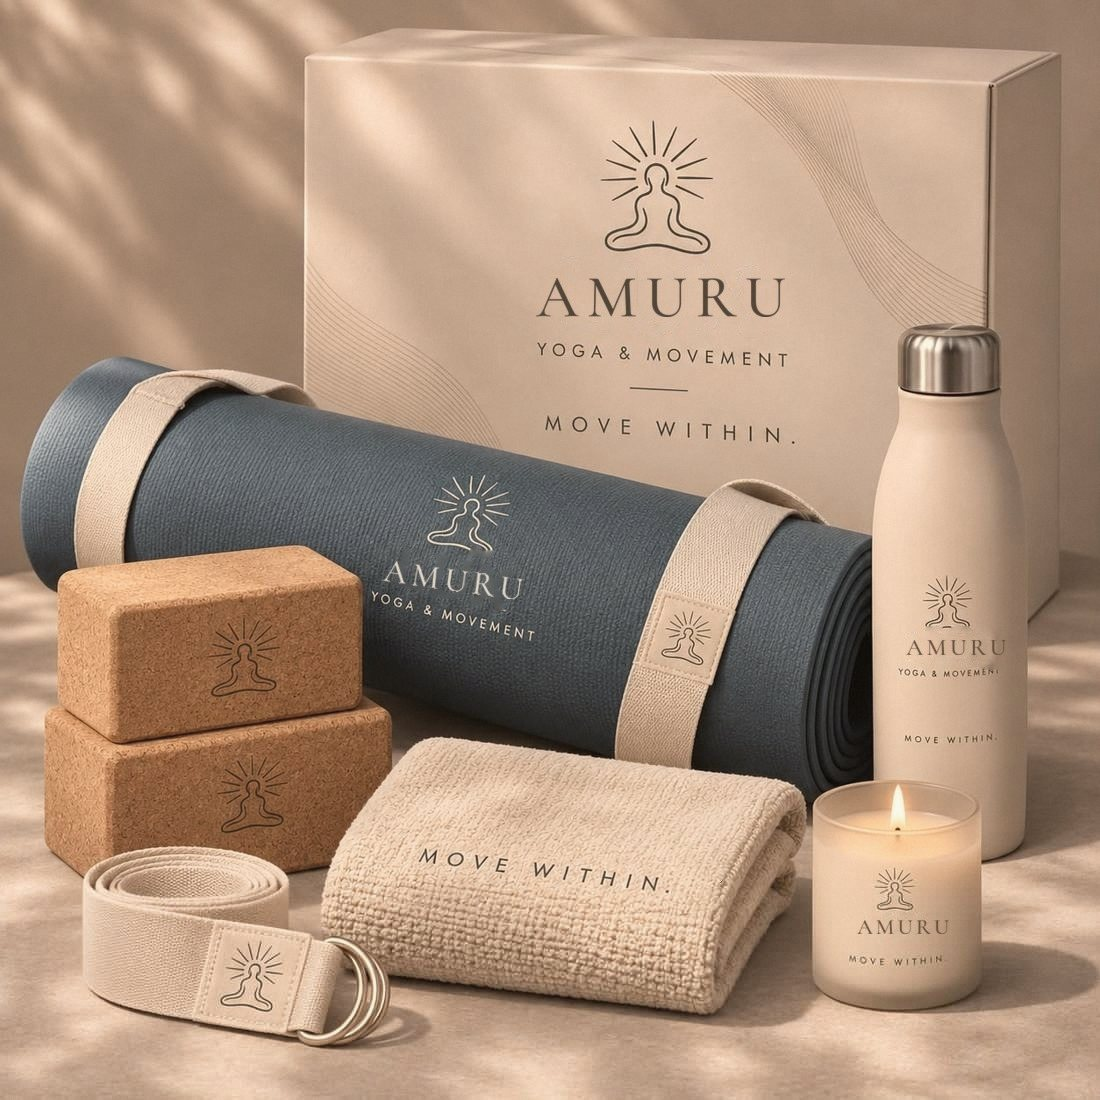
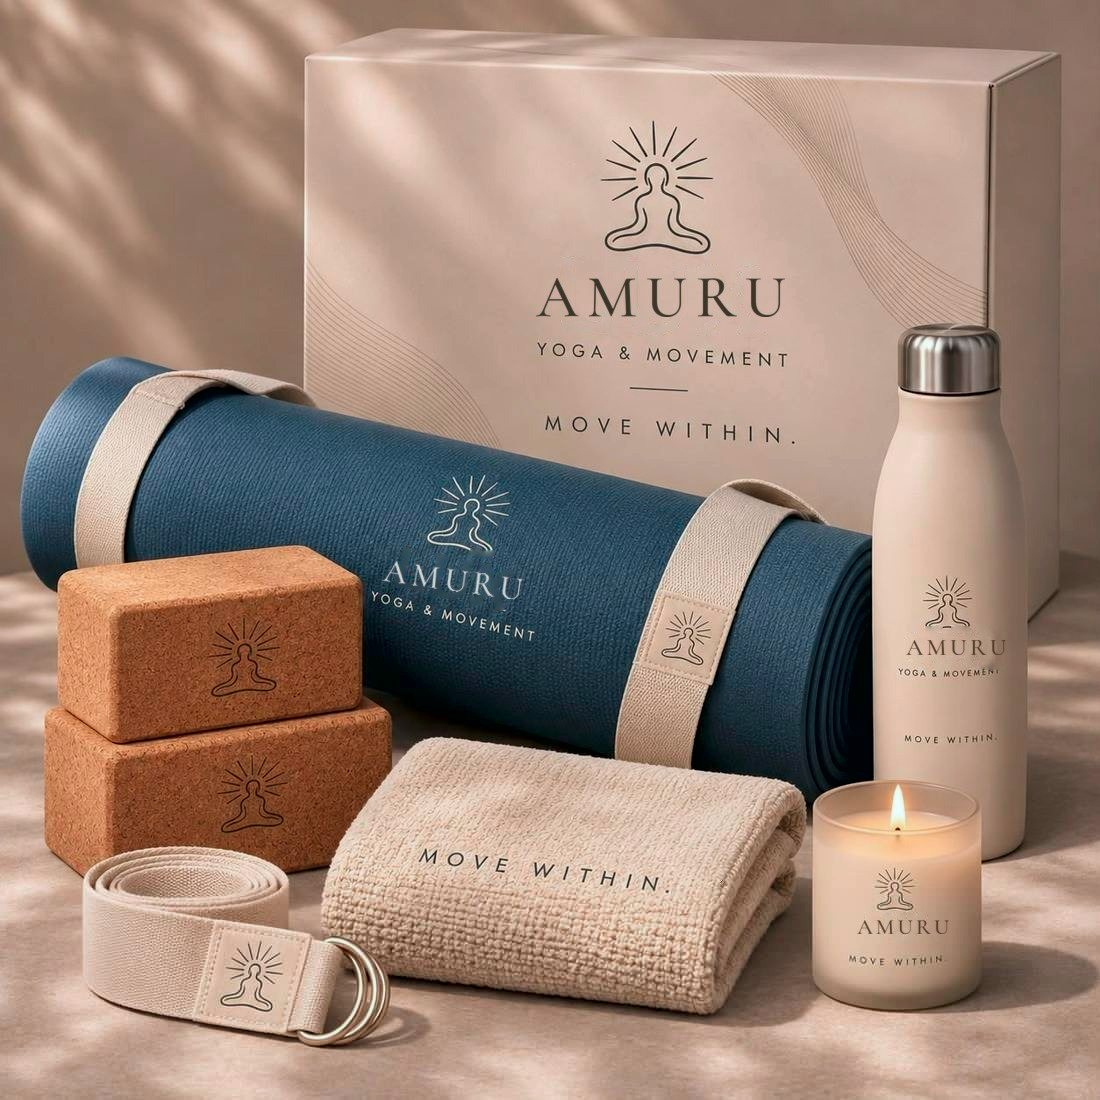
Remove film grade; match older photos to the natural look of the new shoot
Claude-Session: https://claude.ai/code/session_01Q68BjWFDyDSHyHZgopsCK4

Changed region(s): [[0.0, 0.3091, 0.6491, 0.8036], [0.6182, 0.4636, 0.8036, 0.7418], [0.6182, 0.2473, 0.6491, 0.2782]]

diff --git a/index.html b/index.html
@@ -24,7 +24,7 @@
 <header class="site-header" id="top"><div class="bar wrap"><a class="brand" href="#top" aria-label="AMURU, inicio"><img src="fotos/amuru-symbol.png" alt=""/><span>AMURU</span></a><nav class="nav" aria-label="Navegación principal"><a href="collection.html">Colección</a><a class="soc" href="https://www.tiktok.com/@mafervasquezz" target="_blank" rel="noopener noreferrer" aria-label="TikTok"><svg class="ico" viewBox="0 0 24 24" aria-hidden="true"><path d="M14.2 3.5v10.9a3.6 3.6 0 1 1-3.6-3.6" fill="none" stroke="currentColor" stroke-width="1.7" stroke-linecap="round" stroke-linejoin="round"/><path d="M14.2 3.5c.4 2.6 2.3 4.4 5 4.6" fill="none" stroke="currentColor" stroke-width="1.7" stroke-linecap="round"/></svg><span class="txt">TikTok</span></a><a class="soc" href="https://www.instagram.com/amuru.wellness/" target="_blank" rel="noopener noreferrer" aria-label="Instagram"><svg class="ico" viewBox="0 0 24 24" aria-hidden="true"><rect x="3.2" y="3.2" width="17.6" height="17.6" rx="5" fill="none" stroke="currentColor" stroke-width="1.6"/><circle cx="12" cy="12" r="4.1" fill="none" stroke="currentColor" stroke-width="1.6"/><circle cx="17.3" cy="6.7" r="1.1" fill="currentColor"/></svg><span class="txt">Instagram</span></a></nav><div class="lang" aria-label="Idioma"><a href="/" lang="es" hreflang="es" aria-current="true" title="Español">ES</a><span aria-hidden="true">/</span><a href="/en/" lang="en" hreflang="en" title="English">EN</a></div></div></header>
 <main>
 <section class="hero wrap">
-  <figure class="hero-photo"><img src="fotos/hero-mafer.jpg?v=2" alt="Mafer sonriendo con ropa deportiva color vino"/></figure>
+  <figure class="hero-photo"><img src="fotos/hero-mafer.jpg?v=3" alt="Mafer sonriendo con ropa deportiva color vino"/></figure>
   <div class="hero-copy">
     <p class="eyebrow">Yoga y movimiento · Honduras</p>
     <h1>Bienestar<br>con <em>Mafer.</em></h1>
@@ -48,7 +48,7 @@
 <section class="story section tint" id="story">
   <div class="wrap story-grid">
     <div class="story-head reveal"><p class="eyebrow">Mi historia</p><h2>Por qué creé <em>AMURU.</em></h2></div>
-    <figure class="story-photo reveal"><img src="fotos/story-mafer.jpg" loading="lazy" alt="Mafer sonriendo, recostada en el suelo mientras estira una pierna hacia arriba"/></figure>
+    <figure class="story-photo reveal"><img src="fotos/story-mafer.jpg?v=3" loading="lazy" alt="Mafer sonriendo, recostada en el suelo mientras estira una pierna hacia arriba"/></figure>
     <div class="story-body reveal">
       <p class="lead">Me mudé a Europa cuando las cosas en casa eran difíciles. Lejos de mi familia, estaba aprendiendo a cuidar mi salud mental y a entender mi TDAH.</p>
       <p class="sub">A través del yoga, el entrenamiento, la escritura y mis propias experiencias, descubrí que el verdadero bienestar empieza cuando aprendemos a escucharnos. Ahora vuelvo a Honduras para compartir lo que me ayudó a crecer.</p>
@@ -88,14 +88,14 @@
 <section class="moments section" id="moments">
   <div class="wrap">
     <div class="moments-head section-head reveal"><div><p class="eyebrow">La vida con AMURU</p><h2>Pequeños <em>momentos.</em></h2><p class="sub">No se trata de hacerlo todo. Se trata de hacerlo con intención.</p></div><div class="photo-nav"><button class="ghost" type="button" data-photo-step="-1" aria-label="Foto anterior">Anterior</button><button class="ghost" type="button" data-photo-step="1" aria-label="Siguiente foto">Siguiente</button></div></div>
-    <div class="galeria reveal" id="photo-gallery" role="region" tabindex="0" aria-label="Fotos de la vida y la práctica de yoga de Mafer"><img src="fotos/moment-namaste.jpg" loading="lazy" alt="Mafer sentada en su mat, sonriendo con las manos juntas frente al pecho"><img src="fotos/instagram-CJCs2mjrTdW.jpg" loading="lazy" alt="Mafer en una postura invertida sobre la cabeza, rodeada de árboles"><img src="fotos/ritual.jpg" loading="lazy" alt="Palo santo sobre un plato de cerámica"><img src="fotos/moment-headstand.jpg" loading="lazy" alt="Mafer en una postura invertida sobre la cabeza en su mat"><img src="fotos/instagram-CYPrtsOuMMJ.jpg" loading="lazy" alt="Mafer practicando yoga en un columpio sobre el mar"><img src="fotos/mafer-en-su-mat.jpg?v=2" loading="lazy" alt="Mafer sonriendo, recostada en su mat de yoga junto a dos bloques"><img src="fotos/instagram-BIIc-s-A4sX.jpg" loading="lazy" alt="Mafer en equilibrio junto al agua turquesa"><img src="fotos/stillness.jpg" loading="lazy" alt="Una terraza tranquila con vista al agua"></div>
+    <div class="galeria reveal" id="photo-gallery" role="region" tabindex="0" aria-label="Fotos de la vida y la práctica de yoga de Mafer"><img src="fotos/moment-namaste.jpg?v=3" loading="lazy" alt="Mafer sentada en su mat, sonriendo con las manos juntas frente al pecho"><img src="fotos/instagram-CJCs2mjrTdW.jpg?v=3" loading="lazy" alt="Mafer en una postura invertida sobre la cabeza, rodeada de árboles"><img src="fotos/ritual.jpg?v=3" loading="lazy" alt="Palo santo sobre un plato de cerámica"><img src="fotos/moment-headstand.jpg?v=3" loading="lazy" alt="Mafer en una postura invertida sobre la cabeza en su mat"><img src="fotos/instagram-CYPrtsOuMMJ.jpg?v=3" loading="lazy" alt="Mafer practicando yoga en un columpio sobre el mar"><img src="fotos/mafer-en-su-mat.jpg?v=3" loading="lazy" alt="Mafer sonriendo, recostada en su mat de yoga junto a dos bloques"><img src="fotos/instagram-BIIc-s-A4sX.jpg?v=3" loading="lazy" alt="Mafer en equilibrio junto al agua turquesa"><img src="fotos/stillness.jpg?v=3" loading="lazy" alt="Una terraza tranquila con vista al agua"></div>
   </div>
 </section>
 
 <section id="collection-preview" class="teaser section tint" aria-labelledby="collection-preview-title">
   <div class="wrap teaser-grid">
     <div class="teaser-copy reveal"><p class="eyebrow">La colección AMURU</p><h2 id="collection-preview-title">Un poco más para <em>tu día a día.</em></h2><p class="sub">Descubre nuestros sets de yoga y Pilates, y los pequeños esenciales para tu práctica.</p></div>
-    <div class="teaser-images reveal"><figure><img src="fotos/cork-ritual.jpg" alt="Set Cork Ritual con mat de corcho, bloques y bolso de lona" loading="lazy"><figcaption>Set Cork Ritual</figcaption></figure><figure><img src="fotos/pilates.jpg" alt="Set Pilates con aro, pelota, bandas de tela y calcetines antideslizantes" loading="lazy"><figcaption>Set Pilates</figcaption></figure></div>
+    <div class="teaser-images reveal"><figure><img src="fotos/cork-ritual.jpg?v=3" alt="Set Cork Ritual con mat de corcho, bloques y bolso de lona" loading="lazy"><figcaption>Set Cork Ritual</figcaption></figure><figure><img src="fotos/pilates.jpg?v=3" alt="Set Pilates con aro, pelota, bandas de tela y calcetines antideslizantes" loading="lazy"><figcaption>Set Pilates</figcaption></figure></div>
     <div class="teaser-cta reveal"><a class="btn" href="collection.html">Ver la colección</a></div>
   </div>
 </section>

diff --git a/en/index.html b/en/index.html
@@ -24,7 +24,7 @@
 <header class="site-header" id="top"><div class="bar wrap"><a class="brand" href="#top" aria-label="AMURU, home"><img src="../fotos/amuru-symbol.png" alt=""/><span>AMURU</span></a><nav class="nav" aria-label="Main navigation"><a href="collection.html">Collection</a><a class="soc" href="https://www.tiktok.com/@mafervasquezz" target="_blank" rel="noopener noreferrer" aria-label="TikTok"><svg class="ico" viewBox="0 0 24 24" aria-hidden="true"><path d="M14.2 3.5v10.9a3.6 3.6 0 1 1-3.6-3.6" fill="none" stroke="currentColor" stroke-width="1.7" stroke-linecap="round" stroke-linejoin="round"/><path d="M14.2 3.5c.4 2.6 2.3 4.4 5 4.6" fill="none" stroke="currentColor" stroke-width="1.7" stroke-linecap="round"/></svg><span class="txt">TikTok</span></a><a class="soc" href="https://www.instagram.com/amuru.wellness/" target="_blank" rel="noopener noreferrer" aria-label="Instagram"><svg class="ico" viewBox="0 0 24 24" aria-hidden="true"><rect x="3.2" y="3.2" width="17.6" height="17.6" rx="5" fill="none" stroke="currentColor" stroke-width="1.6"/><circle cx="12" cy="12" r="4.1" fill="none" stroke="currentColor" stroke-width="1.6"/><circle cx="17.3" cy="6.7" r="1.1" fill="currentColor"/></svg><span class="txt">Instagram</span></a></nav><div class="lang" aria-label="Language"><a href="/" lang="es" hreflang="es" title="Español">ES</a><span aria-hidden="true">/</span><a href="/en/" lang="en" hreflang="en" aria-current="true" title="English">EN</a></div></div></header>
 <main>
 <section class="hero wrap">
-  <figure class="hero-photo"><img src="../fotos/hero-mafer.jpg?v=2" alt="Mafer smiling in burgundy activewear"/></figure>
+  <figure class="hero-photo"><img src="../fotos/hero-mafer.jpg?v=3" alt="Mafer smiling in burgundy activewear"/></figure>
   <div class="hero-copy">
     <p class="eyebrow">Yoga &amp; Movement · Honduras</p>
     <h1>Wellness<br>with <em>Mafer.</em></h1>
@@ -48,7 +48,7 @@
 <section class="story section tint" id="story">
   <div class="wrap story-grid">
     <div class="story-head reveal"><p class="eyebrow">My story</p><h2>Why I started <em>AMURU.</em></h2></div>
-    <figure class="story-photo reveal"><img src="../fotos/story-mafer.jpg" loading="lazy" alt="Mafer smiling as she lies back and stretches one leg up"/></figure>
+    <figure class="story-photo reveal"><img src="../fotos/story-mafer.jpg?v=3" loading="lazy" alt="Mafer smiling as she lies back and stretches one leg up"/></figure>
     <div class="story-body reveal">
       <p class="lead">I moved to Europe when things were hard back home. Far from family, I was learning to look after my mental health and understand my ADHD.</p>
       <p class="sub">Through yoga, training, writing and my own experiences, I found that real wellbeing begins when we learn to listen to ourselves. Now I’m coming home to Honduras to share what helped me grow.</p>
@@ -88,14 +88,14 @@
 <section class="moments section" id="moments">
   <div class="wrap">
     <div class="moments-head section-head reveal"><div><p class="eyebrow">Life with AMURU</p><h2>Little <em>moments.</em></h2><p class="sub">It isn’t about doing it all. It’s about doing it with intention.</p></div><div class="photo-nav"><button class="ghost" type="button" data-photo-step="-1" aria-label="Previous photo">Previous</button><button class="ghost" type="button" data-photo-step="1" aria-label="Next photo">Next</button></div></div>
-    <div class="galeria reveal" id="photo-gallery" role="region" tabindex="0" aria-label="Photos from Mafer’s life and yoga practice"><img src="../fotos/moment-namaste.jpg" loading="lazy" alt="Mafer sitting on her mat, smiling with her hands together at her chest"><img src="../fotos/instagram-CJCs2mjrTdW.jpg" loading="lazy" alt="Mafer holding a cross-legged headstand surrounded by trees"><img src="../fotos/ritual.jpg" loading="lazy" alt="Palo santo resting on a ceramic dish"><img src="../fotos/moment-headstand.jpg" loading="lazy" alt="Mafer in a headstand variation on her mat"><img src="../fotos/instagram-CYPrtsOuMMJ.jpg" loading="lazy" alt="Mafer practicing yoga on a swing over the sea"><img src="../fotos/mafer-en-su-mat.jpg?v=2" loading="lazy" alt="Mafer smiling as she lies on her yoga mat beside two blocks"><img src="../fotos/instagram-BIIc-s-A4sX.jpg" loading="lazy" alt="Mafer balancing beside turquoise water"><img src="../fotos/stillness.jpg" loading="lazy" alt="A quiet terrace overlooking the water"></div>
+    <div class="galeria reveal" id="photo-gallery" role="region" tabindex="0" aria-label="Photos from Mafer’s life and yoga practice"><img src="../fotos/moment-namaste.jpg?v=3" loading="lazy" alt="Mafer sitting on her mat, smiling with her hands together at her chest"><img src="../fotos/instagram-CJCs2mjrTdW.jpg?v=3" loading="lazy" alt="Mafer holding a cross-legged headstand surrounded by trees"><img src="../fotos/ritual.jpg?v=3" loading="lazy" alt="Palo santo resting on a ceramic dish"><img src="../fotos/moment-headstand.jpg?v=3" loading="lazy" alt="Mafer in a headstand variation on her mat"><img src="../fotos/instagram-CYPrtsOuMMJ.jpg?v=3" loading="lazy" alt="Mafer practicing yoga on a swing over the sea"><img src="../fotos/mafer-en-su-mat.jpg?v=3" loading="lazy" alt="Mafer smiling as she lies on her yoga mat beside two blocks"><img src="../fotos/instagram-BIIc-s-A4sX.jpg?v=3" loading="lazy" alt="Mafer balancing beside turquoise water"><img src="../fotos/stillness.jpg?v=3" loading="lazy" alt="A quiet terrace overlooking the water"></div>
   </div>
 </section>
 
 <section id="collection-preview" class="teaser section tint" aria-labelledby="collection-preview-title">
   <div class="wrap teaser-grid">
     <div class="teaser-copy reveal"><p class="eyebrow">The AMURU collection</p><h2 id="collection-preview-title">A little more for <em>your everyday.</em></h2><p class="sub">Explore our yoga and Pilates sets, and the small essentials for your practice.</p></div>
-    <div class="teaser-images reveal"><figure><img src="../fotos/cork-ritual.jpg" alt="Cork Ritual Set with cork mat, blocks and canvas bag" loading="lazy"><figcaption>Cork Ritual Set</figcaption></figure><figure><img src="../fotos/pilates.jpg" alt="Pilates Set with ring, ball, fabric bands and grip socks" loading="lazy"><figcaption>Pilates Set</figcaption></figure></div>
+    <div class="teaser-images reveal"><figure><img src="../fotos/cork-ritual.jpg?v=3" alt="Cork Ritual Set with cork mat, blocks and canvas bag" loading="lazy"><figcaption>Cork Ritual Set</figcaption></figure><figure><img src="../fotos/pilates.jpg?v=3" alt="Pilates Set with ring, ball, fabric bands and grip socks" loading="lazy"><figcaption>Pilates Set</figcaption></figure></div>
     <div class="teaser-cta reveal"><a class="btn" href="collection.html">Explore the collection</a></div>
   </div>
 </section>

diff --git a/collection.html b/collection.html
@@ -36,18 +36,18 @@
 <section class="shelf wrap" aria-labelledby="sets-title">
   <div class="shelf-head"><p class="eyebrow">Los sets</p><h2 id="sets-title">Hechos para tu <em>práctica.</em></h2></div>
   <div class="product-grid">
-    <article><img src="fotos/cork-ritual.jpg" alt="Set Cork Ritual: mat de corcho, bloques de corcho, bolso de lona y palo santo" loading="lazy"><h3>Set Cork Ritual</h3><p>Mat de corcho con mandala, dos bloques de corcho, bolso de lona, incienso de palo santo y soporte.</p></article>
-    <article><img src="fotos/essentials.jpg" alt="Set Essentials: mat azul pizarra, bloques de corcho, correa, toalla, botella y vela" loading="lazy"><h3>Set Essentials</h3><p>Mat azul pizarra, bloques de corcho, correa de algodón, toalla, botella de acero y vela.</p></article>
-    <article><img src="fotos/pilates.jpg" alt="Set Pilates: aro de Pilates, pelota suave, bandas de tela y calcetines antideslizantes" loading="lazy"><h3>Set Pilates</h3><p>Aro de Pilates, pelota suave, tres bandas de tela y un par de calcetines antideslizantes.</p></article>
+    <article><img src="fotos/cork-ritual.jpg?v=3" alt="Set Cork Ritual: mat de corcho, bloques de corcho, bolso de lona y palo santo" loading="lazy"><h3>Set Cork Ritual</h3><p>Mat de corcho con mandala, dos bloques de corcho, bolso de lona, incienso de palo santo y soporte.</p></article>
+    <article><img src="fotos/essentials.jpg?v=3" alt="Set Essentials: mat azul pizarra, bloques de corcho, correa, toalla, botella y vela" loading="lazy"><h3>Set Essentials</h3><p>Mat azul pizarra, bloques de corcho, correa de algodón, toalla, botella de acero y vela.</p></article>
+    <article><img src="fotos/pilates.jpg?v=3" alt="Set Pilates: aro de Pilates, pelota suave, bandas de tela y calcetines antideslizantes" loading="lazy"><h3>Set Pilates</h3><p>Aro de Pilates, pelota suave, tres bandas de tela y un par de calcetines antideslizantes.</p></article>
   </div>
 </section>
 
 <section class="shelf wrap" aria-labelledby="daily-title">
   <div class="shelf-head"><p class="eyebrow">Esenciales</p><h2 id="daily-title">Pequeñas cosas, <em>cada día.</em></h2><p>Elige las piezas que más usas.</p></div>
   <div class="product-grid">
-    <article><img src="fotos/fabric-bands.jpg" alt="Bandas de tela, trío" loading="lazy"><h3>Bandas de tela, trío</h3><p>Ligera, media y firme. Algodón tejido suave que no se enrolla ni aprieta.</p></article>
-    <article><img src="fotos/pilates-ball.jpg" alt="Pelota de Pilates suave" loading="lazy"><h3>Pelota de Pilates suave</h3><p>25 cm, acabado mate. Para trabajar el core, la postura y liberar suavemente la espalda.</p></article>
-    <article><img src="fotos/grip-socks.jpg" alt="Calcetines antideslizantes Move Within" loading="lazy"><h3>Calcetines antideslizantes Move Within</h3><p>Algodón con empeine abierto y agarre en toda la suela. Pensados para reformer y barre.</p></article>
+    <article><img src="fotos/fabric-bands.jpg?v=3" alt="Bandas de tela, trío" loading="lazy"><h3>Bandas de tela, trío</h3><p>Ligera, media y firme. Algodón tejido suave que no se enrolla ni aprieta.</p></article>
+    <article><img src="fotos/pilates-ball.jpg?v=3" alt="Pelota de Pilates suave" loading="lazy"><h3>Pelota de Pilates suave</h3><p>25 cm, acabado mate. Para trabajar el core, la postura y liberar suavemente la espalda.</p></article>
+    <article><img src="fotos/grip-socks.jpg?v=3" alt="Calcetines antideslizantes Move Within" loading="lazy"><h3>Calcetines antideslizantes Move Within</h3><p>Algodón con empeine abierto y agarre en toda la suela. Pensados para reformer y barre.</p></article>
   </div>
 </section>
 

diff --git a/en/collection.html b/en/collection.html
@@ -36,18 +36,18 @@
 <section class="shelf wrap" aria-labelledby="sets-title">
   <div class="shelf-head"><p class="eyebrow">The sets</p><h2 id="sets-title">Made for your <em>practice.</em></h2></div>
   <div class="product-grid">
-    <article><img src="../fotos/cork-ritual.jpg" alt="The Cork Ritual Set: cork mat, cork blocks, canvas duffel and palo santo" loading="lazy"><h3>The Cork Ritual Set</h3><p>Mandala cork mat, two cork blocks, canvas duffel, palo santo incense and holder.</p></article>
-    <article><img src="../fotos/essentials.jpg" alt="The Essentials Set: slate-blue mat, cork blocks, strap, towel, bottle and candle" loading="lazy"><h3>The Essentials Set</h3><p>Slate-blue mat, cork blocks, cotton strap, towel, steel bottle and candle.</p></article>
-    <article><img src="../fotos/pilates.jpg" alt="The Pilates Set: Pilates ring, soft ball, fabric bands and grip socks" loading="lazy"><h3>The Pilates Set</h3><p>Pilates ring, soft ball, three fabric bands and a pair of grip socks.</p></article>
+    <article><img src="../fotos/cork-ritual.jpg?v=3" alt="The Cork Ritual Set: cork mat, cork blocks, canvas duffel and palo santo" loading="lazy"><h3>The Cork Ritual Set</h3><p>Mandala cork mat, two cork blocks, canvas duffel, palo santo incense and holder.</p></article>
+    <article><img src="../fotos/essentials.jpg?v=3" alt="The Essentials Set: slate-blue mat, cork blocks, strap, towel, bottle and candle" loading="lazy"><h3>The Essentials Set</h3><p>Slate-blue mat, cork blocks, cotton strap, towel, steel bottle and candle.</p></article>
+    <article><img src="../fotos/pilates.jpg?v=3" alt="The Pilates Set: Pilates ring, soft ball, fabric bands and grip socks" loading="lazy"><h3>The Pilates Set</h3><p>Pilates ring, soft ball, three fabric bands and a pair of grip socks.</p></article>
   </div>
 </section>
 
 <section class="shelf wrap" aria-labelledby="daily-title">
   <div class="shelf-head"><p class="eyebrow">Essentials</p><h2 id="daily-title">Small things, <em>daily.</em></h2><p>Pick up the pieces you reach for most.</p></div>
   <div class="product-grid">
-    <article><img src="../fotos/fabric-bands.jpg" alt="Fabric Bands, trio" loading="lazy"><h3>Fabric Bands, trio</h3><p>Light, medium and firm. Soft woven cotton that won’t roll or pinch.</p></article>
-    <article><img src="../fotos/pilates-ball.jpg" alt="Soft Pilates Ball" loading="lazy"><h3>Soft Pilates Ball</h3><p>25cm, matte finish. For core work, posture and gentle back release.</p></article>
-    <article><img src="../fotos/grip-socks.jpg" alt="Move Within Grip Socks" loading="lazy"><h3>Move Within Grip Socks</h3><p>Open-top cotton with a full-sole grip. Made for reformer and barre.</p></article>
+    <article><img src="../fotos/fabric-bands.jpg?v=3" alt="Fabric Bands, trio" loading="lazy"><h3>Fabric Bands, trio</h3><p>Light, medium and firm. Soft woven cotton that won’t roll or pinch.</p></article>
+    <article><img src="../fotos/pilates-ball.jpg?v=3" alt="Soft Pilates Ball" loading="lazy"><h3>Soft Pilates Ball</h3><p>25cm, matte finish. For core work, posture and gentle back release.</p></article>
+    <article><img src="../fotos/grip-socks.jpg?v=3" alt="Move Within Grip Socks" loading="lazy"><h3>Move Within Grip Socks</h3><p>Open-top cotton with a full-sole grip. Made for reformer and barre.</p></article>
   </div>
 </section>
 
